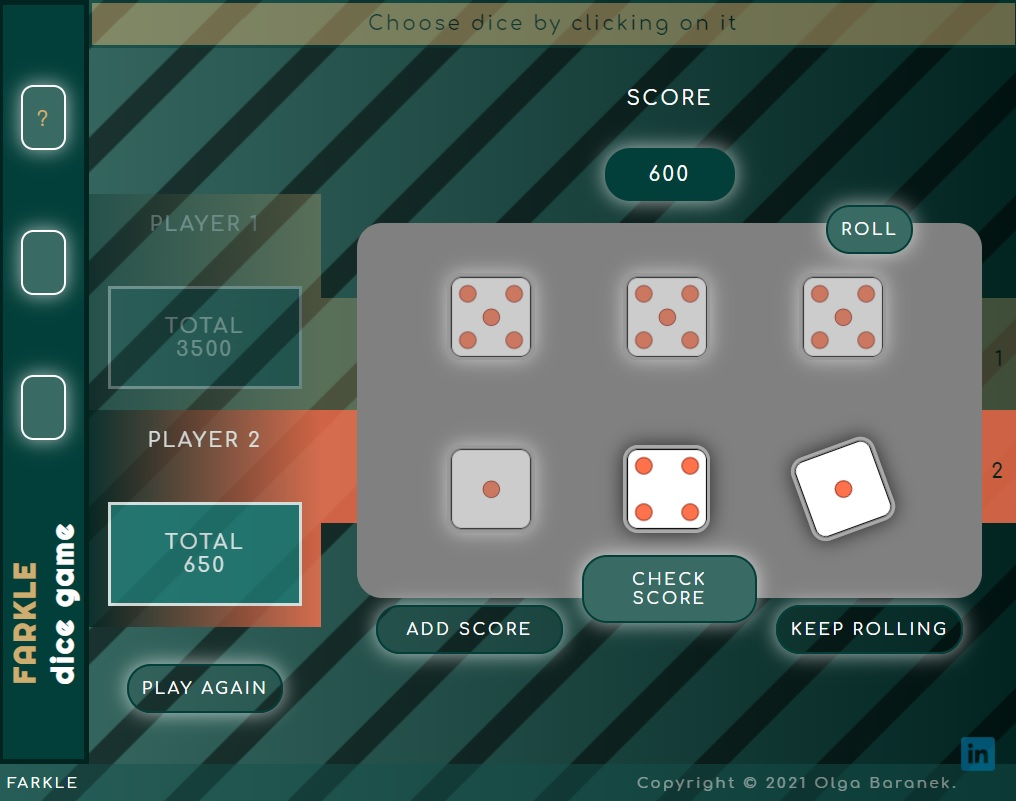
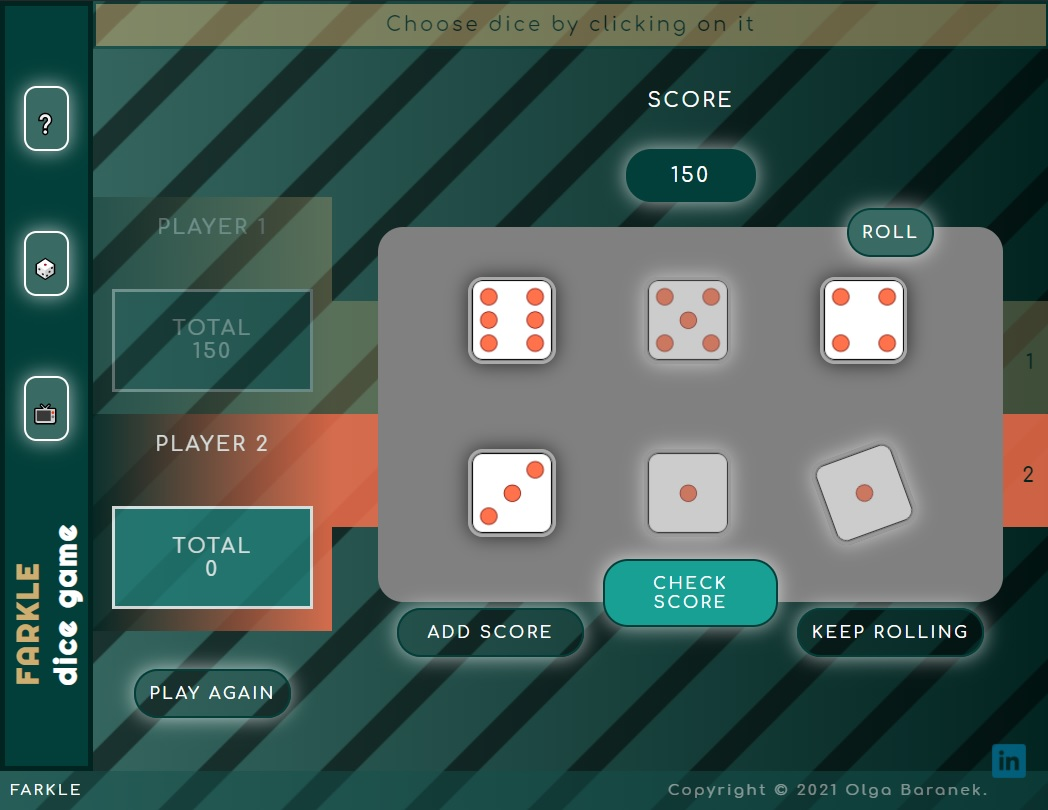
description edit

diff --git a/README.md b/README.md
@@ -1,8 +1,12 @@
 # FARKLE-dice-game
 
+// game functionality is ready / code improvements in progress //
+
 Farkle is a popular dice game, here designed for two players only.
 
 Players roll different dice combinations with six dice. Each player can win by scoring 10,000 or more points.
+
+![Getting Started](img/game_screen.jpg)
 
 📌 HOW TO RUN THE GAME.
 
@@ -16,5 +20,6 @@ All the rules apply except for two minor ones. This means:
 ◽ Each player does not have to score a minimum of 500 points in order to start the game.
 ◽ If a current player gets 10.000 points the game is finished and he is the winner.
 
-📌 Counting points.
+📌 POINTS.
 
+![Getting Started](img/scoring_combinations.jpg)
